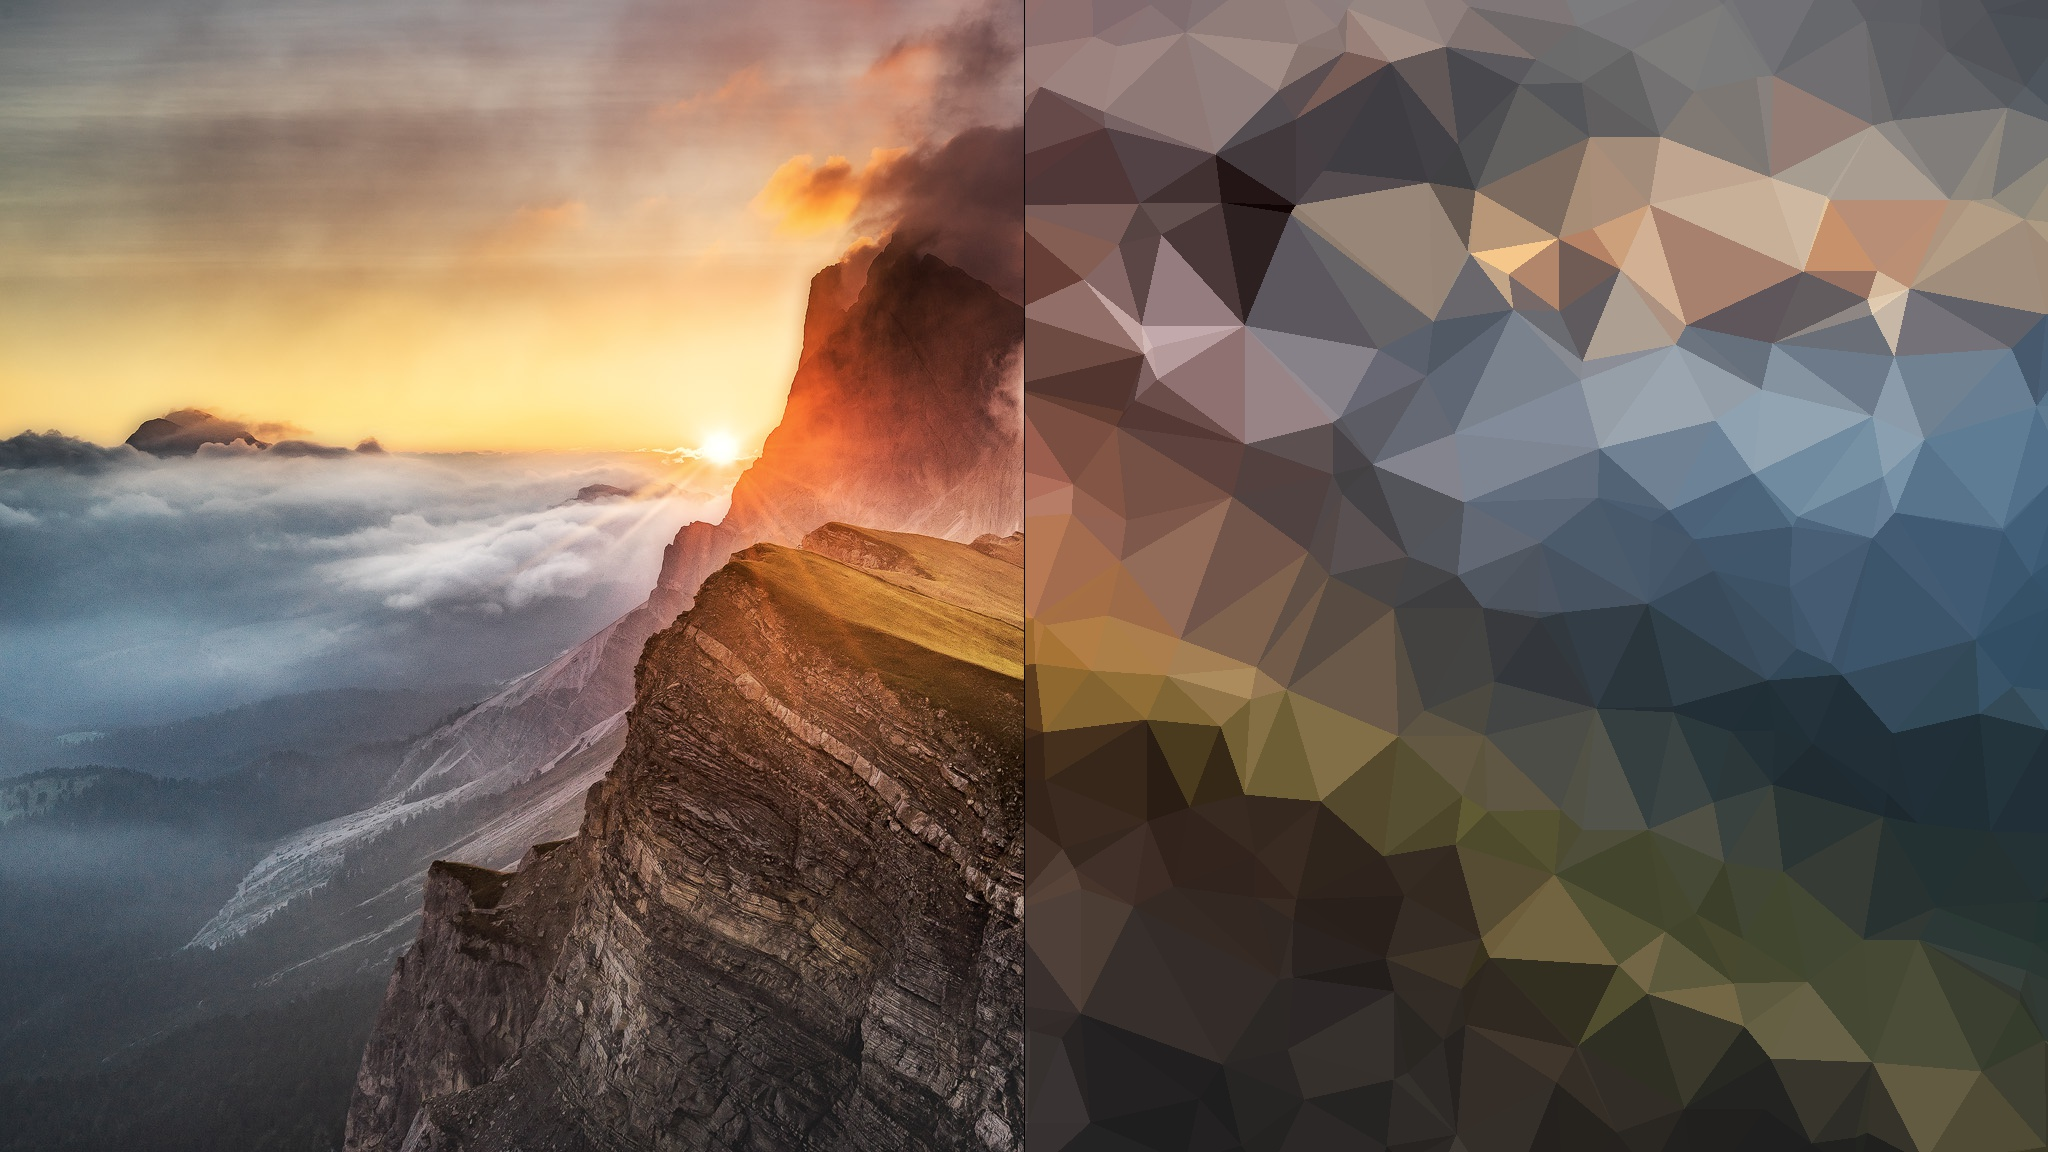
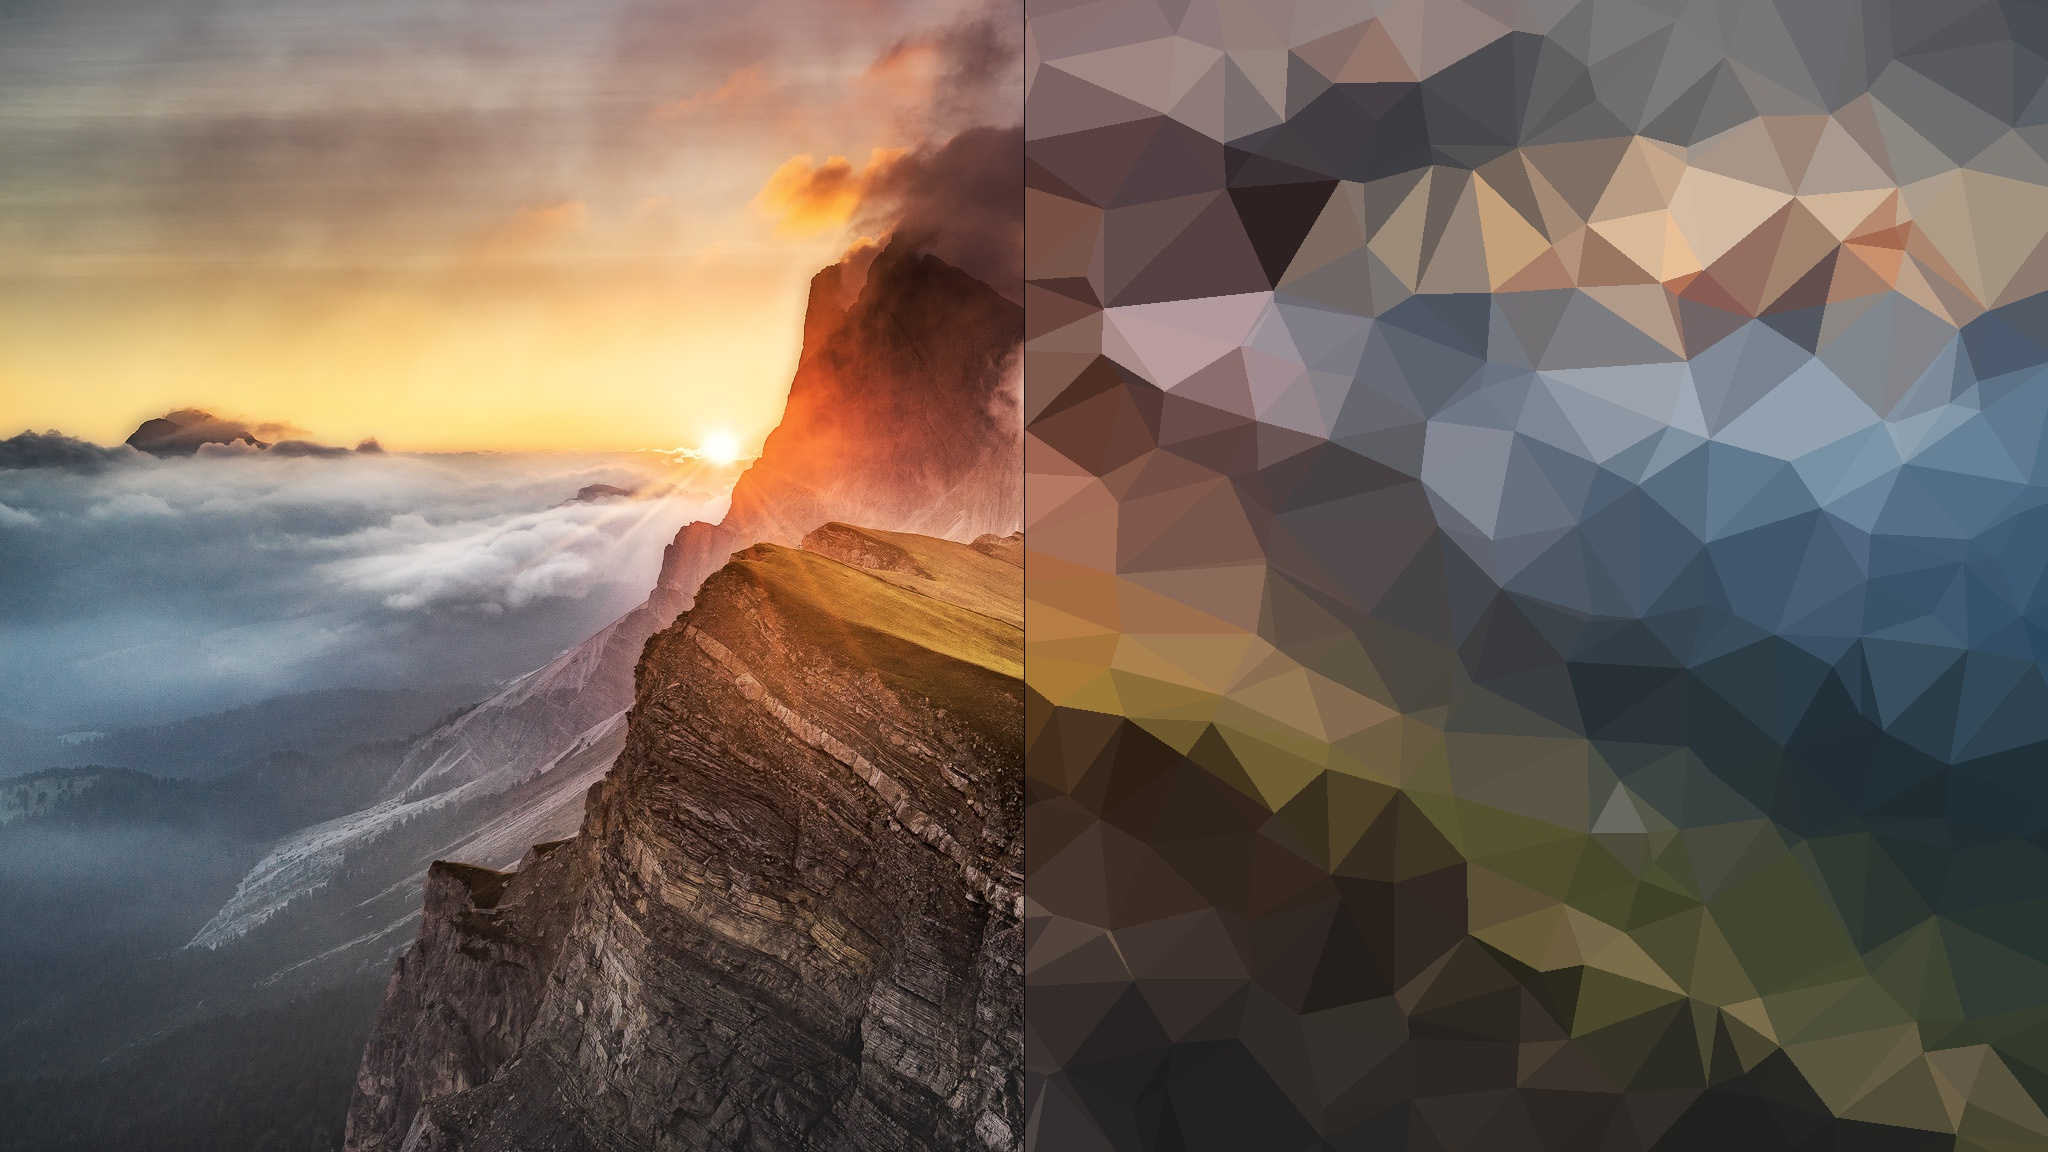
Updated images.

diff --git a/README.md b/README.md
@@ -14,8 +14,16 @@ Performance is not optimized.
 # Low-Poly-Images (Second Version)
 Similar to the first approach, but instead of KNN, the Dulaunay method to create polygons is used. Results are much better!  
 
-![Resulting Image](https://raw.githubusercontent.com/melching/Low-Poly-Images/master/images/test_image-lp.jpg)
 
-![Resulting Image](https://raw.githubusercontent.com/melching/Low-Poly-Images/master/images/test_image_2-comp.jpg)
+Image 1
+![Image 1](images/test_image-lp.jpg)
+![Image 1 comp](images/test_image-comp.jpg)
 
-![Resulting Image](https://raw.githubusercontent.com/melching/Low-Poly-Images/master/images/test_image_3-comp.jpg)
+Image 2
+![Image 2](images/test_image_2-comp.jpg)
+
+Image 3
+![Image 3](images/test_image_3-comp.jpg)
+
+Image 4 (more triangles)
+![Image 4](images/test_image_4-comp.jpg)
